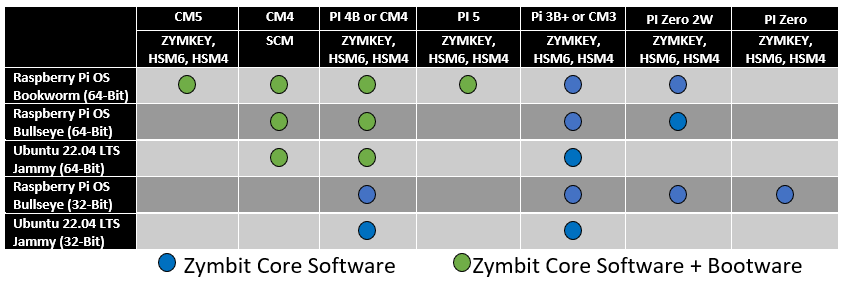
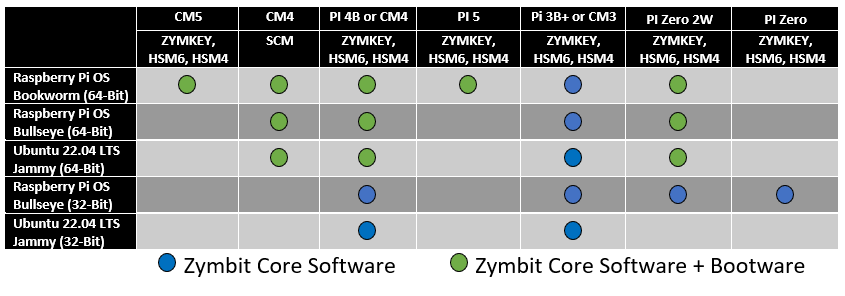
Note changes for 1.3.1-rc-01

Changed region(s): [[0.0, 0.0306, 1.0, 0.949], [0.4009, 0.7653, 0.4318, 0.7959], [0.4009, 0.6429, 0.4318, 0.6735]]

diff --git a/content/_index.md b/content/_index.md
@@ -19,6 +19,13 @@ Welcome to Zymbit’s Documentation Site! Here, you will find all the resources 
 <br>
 
 -----
+#### March 2025 - RELEASE CANDIDATE **NOT FOR PRODUCTION**
+-----
+Bootware® 1.3.1 Release Candidate (1.3.1-rc-01):
+- Features:
+  - #182 Add support for PiZero 2W (ZYMKEY, HSM4, HSM6)
+
+-----
 #### February 2025
 -----
 Bootware® 1.3 Release (1.3.0-1):

diff --git a/content/bootware1.3/_index.md b/content/bootware1.3/_index.md
@@ -1,14 +1,12 @@
 ---
-title: "Welcome to Bootware"
-linkTitle: "Bootware"
+title: "Welcome to Bootware 1.3.0"
+linkTitle: "Bootware 1.3.0"
 icon: ""
 description: ""
-aliases:
-    - /bootware/
 date: "2024-08-11"
-lastmod: "2025-02-19"
+lastmod: "2025-03-13"
 draft: false
-weight: 3
+weight: 4
 images: []
 toc: True
 

diff --git a/content/bootware1.3.1/_index.md b/content/bootware1.3.1/_index.md
@@ -1,12 +1,12 @@
 ---
-title: "Welcome to Bootware"
-linkTitle: "Bootware"
+title: "Welcome to Bootware 1.3.1"
+linkTitle: "Bootware 1.3.1 (RC)"
 icon: ""
 description: ""
 aliases:
     - /bootware/
 date: "2024-08-11"
-lastmod: "2025-02-19"
+lastmod: "2025-03-13"
 draft: false
 weight: 3
 images: []
